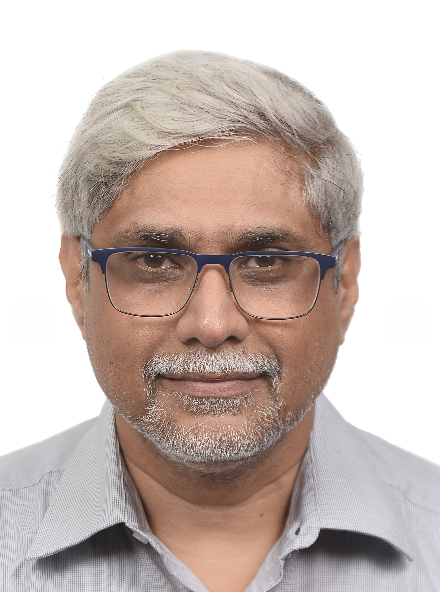
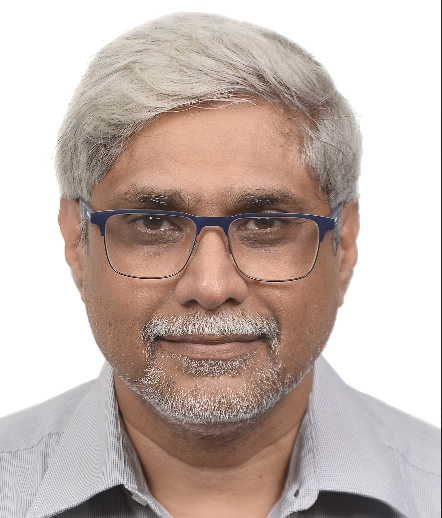
modifications

diff --git a/_members/Governing-bhaskarramamurthi.md b/_members/Governing-bhaskarramamurthi.md
@@ -1,7 +1,7 @@
 ---
 layout: member
 name: Prof. Bhaskar Ramamurthi
-image: director.jpg
+image: director.png
 designations:  
  - Director - IIT Madras 
  - Ex-Offcio - Chair of the Council

diff --git a/_members/Governing-ravindren.md b/_members/Governing-ravindren.md
@@ -1,7 +1,7 @@
 ---
 layout: member
 name: Prof. B. Ravindran
-image: governingravi.jpg
+image: governingravi.png
 designations: 
 - Ex-officio
 - Head RBC-DSAI Member and Secretary
